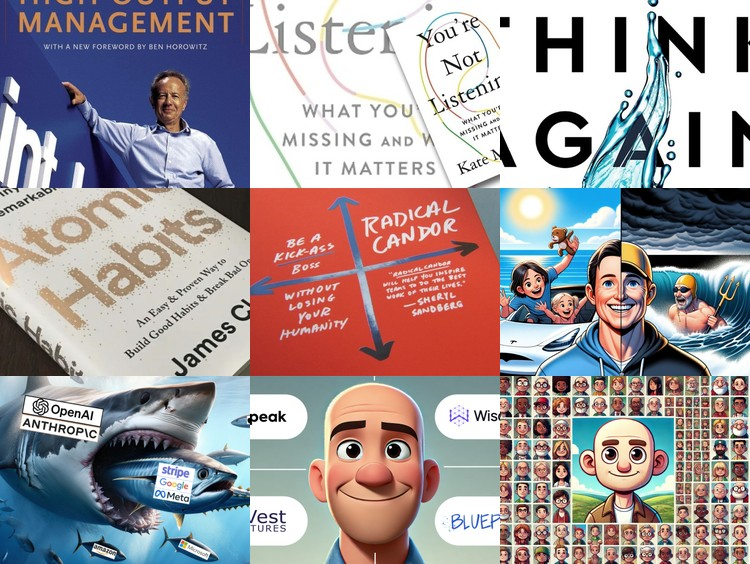
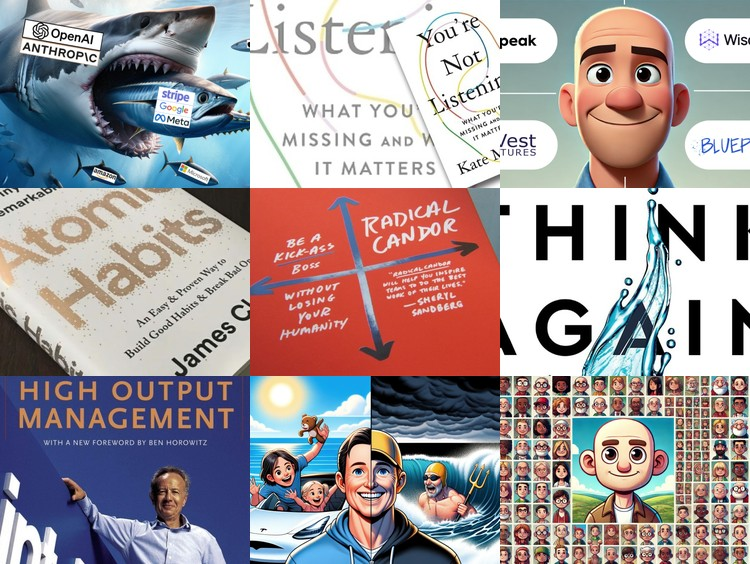
Reorder newsletter quilt: shark to top-left, split screen to top-right, adjust Andy Grove crop

diff --git a/backend/create_newsletter_quilt.py b/backend/create_newsletter_quilt.py
@@ -18,17 +18,24 @@ CELL_HEIGHT = 188  # Height of each grid cell (4:3 aspect ratio - landscape)
 PADDING = 0  # No padding - seamless images with no borders
 
 # Image URLs or file paths - All 9 newsletter images
+# Grid order: 0=top-left, 1=top-middle, 2=top-right, 3=middle-left, 4=middle-middle, 5=middle-right, 6=bottom-left, 7=bottom-middle, 8=bottom-right
 NEWSLETTER_IMAGES = [
-    'https://media.licdn.com/dms/image/v2/C4D12AQE0sgTMyXwx1g/article-cover_image-shrink_720_1280/article-cover_image-shrink_720_1280/0/1624510314269?e=1766016000&v=beta&t=FnGQIk3pPQIeVQd1k7bCgi93TZOCvKYANccYVph2HkU',
-    'https://media.licdn.com/dms/image/v2/C4D12AQHnDo8h3A4E6A/article-cover_image-shrink_600_2000/article-cover_image-shrink_600_2000/0/1613420047799?e=1766016000&v=beta&t=WZ7YN4N6QUrD5JZqP3sozgjNa_saac2er92OHCIHyoM',
-    'https://media.licdn.com/dms/image/v2/C4D12AQFWBG8cBN60pg/article-cover_image-shrink_423_752/article-cover_image-shrink_423_752/0/1614450089861?e=1766016000&v=beta&t=Y8WyE4ldH60sYqf0iq7qNqmBDHRy8tUiFe9UeHQQ3zw',
-    'https://media.licdn.com/dms/image/v2/C4D12AQHSxRvbXh4FfA/article-cover_image-shrink_423_752/article-cover_image-shrink_423_752/0/1618970691405?e=1766016000&v=beta&t=huEiPaY0SYYlEjwnSIBKDe-ZDRanDd36PfndhD_GX0U',
-    'https://media.licdn.com/dms/image/v2/C4D12AQHBut1nEY4gMg/article-cover_image-shrink_423_752/article-cover_image-shrink_423_752/0/1620883418698?e=1766016000&v=beta&t=SG5G79yf2i2keBm3ga1C0I6N7elQNclI3c4ciCeEQLM',
-    'https://media.licdn.com/dms/image/v2/D4D12AQEdMrndn8NEDw/article-cover_image-shrink_600_2000/article-cover_image-shrink_600_2000/0/1702529171871?e=1766016000&v=beta&t=Oa087wensXhDx8QkYtwZ2jQga5HhBmkPXHadbgdgwZI',
-    'https://media.licdn.com/dms/image/v2/D4D12AQGrFXPtyoKVXw/article-cover_image-shrink_423_752/article-cover_image-shrink_423_752/0/1705199692601?e=1766016000&v=beta&t=dkPk8J9VEPw7q_7lK0FC3TitubQLBUaPQjWIw-Mc_ew',
-    'https://media.licdn.com/dms/image/v2/D4D12AQE6uIQ7lAQANg/article-cover_image-shrink_423_752/article-cover_image-shrink_423_752/0/1721802722911?e=1766016000&v=beta&t=LjAFubKnf-dUZD1DpL9QHFnj3Pv-GAbEvRnaG3CLDCo',
-    'https://media.licdn.com/dms/image/v2/D4D12AQFFaGrrDK1eTw/article-cover_image-shrink_423_752/article-cover_image-shrink_423_752/0/1729720825647?e=1766016000&v=beta&t=L3LqpgzthONbqk3k0NQj3UVoIl7fMbXCrysWEu7Mpfc',
+    'https://media.licdn.com/dms/image/v2/D4D12AQGrFXPtyoKVXw/article-cover_image-shrink_423_752/article-cover_image-shrink_423_752/0/1705199692601?e=1766016000&v=beta&t=dkPk8J9VEPw7q_7lK0FC3TitubQLBUaPQjWIw-Mc_ew',  # 0: Shark (was bottom-left)
+    'https://media.licdn.com/dms/image/v2/C4D12AQHnDo8h3A4E6A/article-cover_image-shrink_600_2000/article-cover_image-shrink_600_2000/0/1613420047799?e=1766016000&v=beta&t=WZ7YN4N6QUrD5JZqP3sozgjNa_saac2er92OHCIHyoM',  # 1: top-middle (unchanged)
+    'https://media.licdn.com/dms/image/v2/D4D12AQE6uIQ7lAQANg/article-cover_image-shrink_423_752/article-cover_image-shrink_423_752/0/1721802722911?e=1766016000&v=beta&t=LjAFubKnf-dUZD1DpL9QHFnj3Pv-GAbEvRnaG3CLDCo',  # 2: Split screen man (was middle-right)
+    'https://media.licdn.com/dms/image/v2/C4D12AQHSxRvbXh4FfA/article-cover_image-shrink_423_752/article-cover_image-shrink_423_752/0/1618970691405?e=1766016000&v=beta&t=huEiPaY0SYYlEjwnSIBKDe-ZDRanDd36PfndhD_GX0U',  # 3: middle-left (unchanged)
+    'https://media.licdn.com/dms/image/v2/C4D12AQHBut1nEY4gMg/article-cover_image-shrink_423_752/article-cover_image-shrink_423_752/0/1620883418698?e=1766016000&v=beta&t=SG5G79yf2i2keBm3ga1C0I6N7elQNclI3c4ciCeEQLM',  # 4: middle-middle (unchanged)
+    'https://media.licdn.com/dms/image/v2/C4D12AQFWBG8cBN60pg/article-cover_image-shrink_423_752/article-cover_image-shrink_423_752/0/1614450089861?e=1766016000&v=beta&t=Y8WyE4ldH60sYqf0iq7qNqmBDHRy8tUiFe9UeHQQ3zw',  # 5: Was top-right, now middle-right
+    'https://media.licdn.com/dms/image/v2/C4D12AQE0sgTMyXwx1g/article-cover_image-shrink_720_1280/article-cover_image-shrink_720_1280/0/1624510314269?e=1766016000&v=beta&t=FnGQIk3pPQIeVQd1k7bCgi93TZOCvKYANccYVph2HkU',  # 6: Andy Grove (was top-left) - needs special crop
+    'https://media.licdn.com/dms/image/v2/D4D12AQEdMrndn8NEDw/article-cover_image-shrink_600_2000/article-cover_image-shrink_600_2000/0/1702529171871?e=1766016000&v=beta&t=Oa087wensXhDx8QkYtwZ2jQga5HhBmkPXHadbgdgwZI',  # 7: bottom-middle (unchanged)
+    'https://media.licdn.com/dms/image/v2/D4D12AQFFaGrrDK1eTw/article-cover_image-shrink_423_752/article-cover_image-shrink_423_752/0/1729720825647?e=1766016000&v=beta&t=L3LqpgzthONbqk3k0NQj3UVoIl7fMbXCrysWEu7Mpfc',  # 8: bottom-right (unchanged)
 ]
+
+# Special handling for images that need different crop positioning
+# Image at position 6 (Andy Grove) needs to show more of the top (less crop from top)
+SPECIAL_CROP_IMAGES = {
+    6: {'top_crop_ratio': 0.05}  # Only crop 5% from top, 95% from bottom (to show header)
+}
 
 def download_image(url_or_path):
     """Download an image from URL or load from local file"""
@@ -93,6 +100,10 @@ def create_quilt(image_sources, output_file=OUTPUT_FILE):
             original_aspect = original_width / original_height
             target_aspect = image_width / image_height  # 4:3 = 1.33
             
+            # Check if this image needs special crop handling
+            special_crop = SPECIAL_CROP_IMAGES.get(idx)
+            top_crop_ratio = special_crop['top_crop_ratio'] if special_crop else 0.15
+            
             # Crop to match 4:3 aspect ratio, favoring top portion
             if original_aspect > target_aspect:  # Original is wider - crop width
                 # Crop to center 4:3 rectangle (horizontal crop)
@@ -104,13 +115,13 @@ def create_quilt(image_sources, output_file=OUTPUT_FILE):
                 bottom = original_height
                 img = img.crop((left, top, right, bottom))
             elif original_aspect < target_aspect:  # Original is taller - crop height
-                # Crop to 4:3 rectangle, but favor top (crop 85% from bottom, 15% from top)
+                # Crop to 4:3 rectangle, but favor top (customizable crop ratio)
                 crop_width = original_width
                 crop_height = int(crop_width / target_aspect)
                 left = 0
-                # Shift crop up: take 15% from top, 85% from bottom
+                # Shift crop up: use custom top_crop_ratio (default 15% from top, 85% from bottom)
                 crop_amount = original_height - crop_height
-                top_crop = int(crop_amount * 0.15)  # Only 15% from top
+                top_crop = int(crop_amount * top_crop_ratio)  # Custom ratio (lower = show more top)
                 top = top_crop
                 right = original_width
                 bottom = top + crop_height
